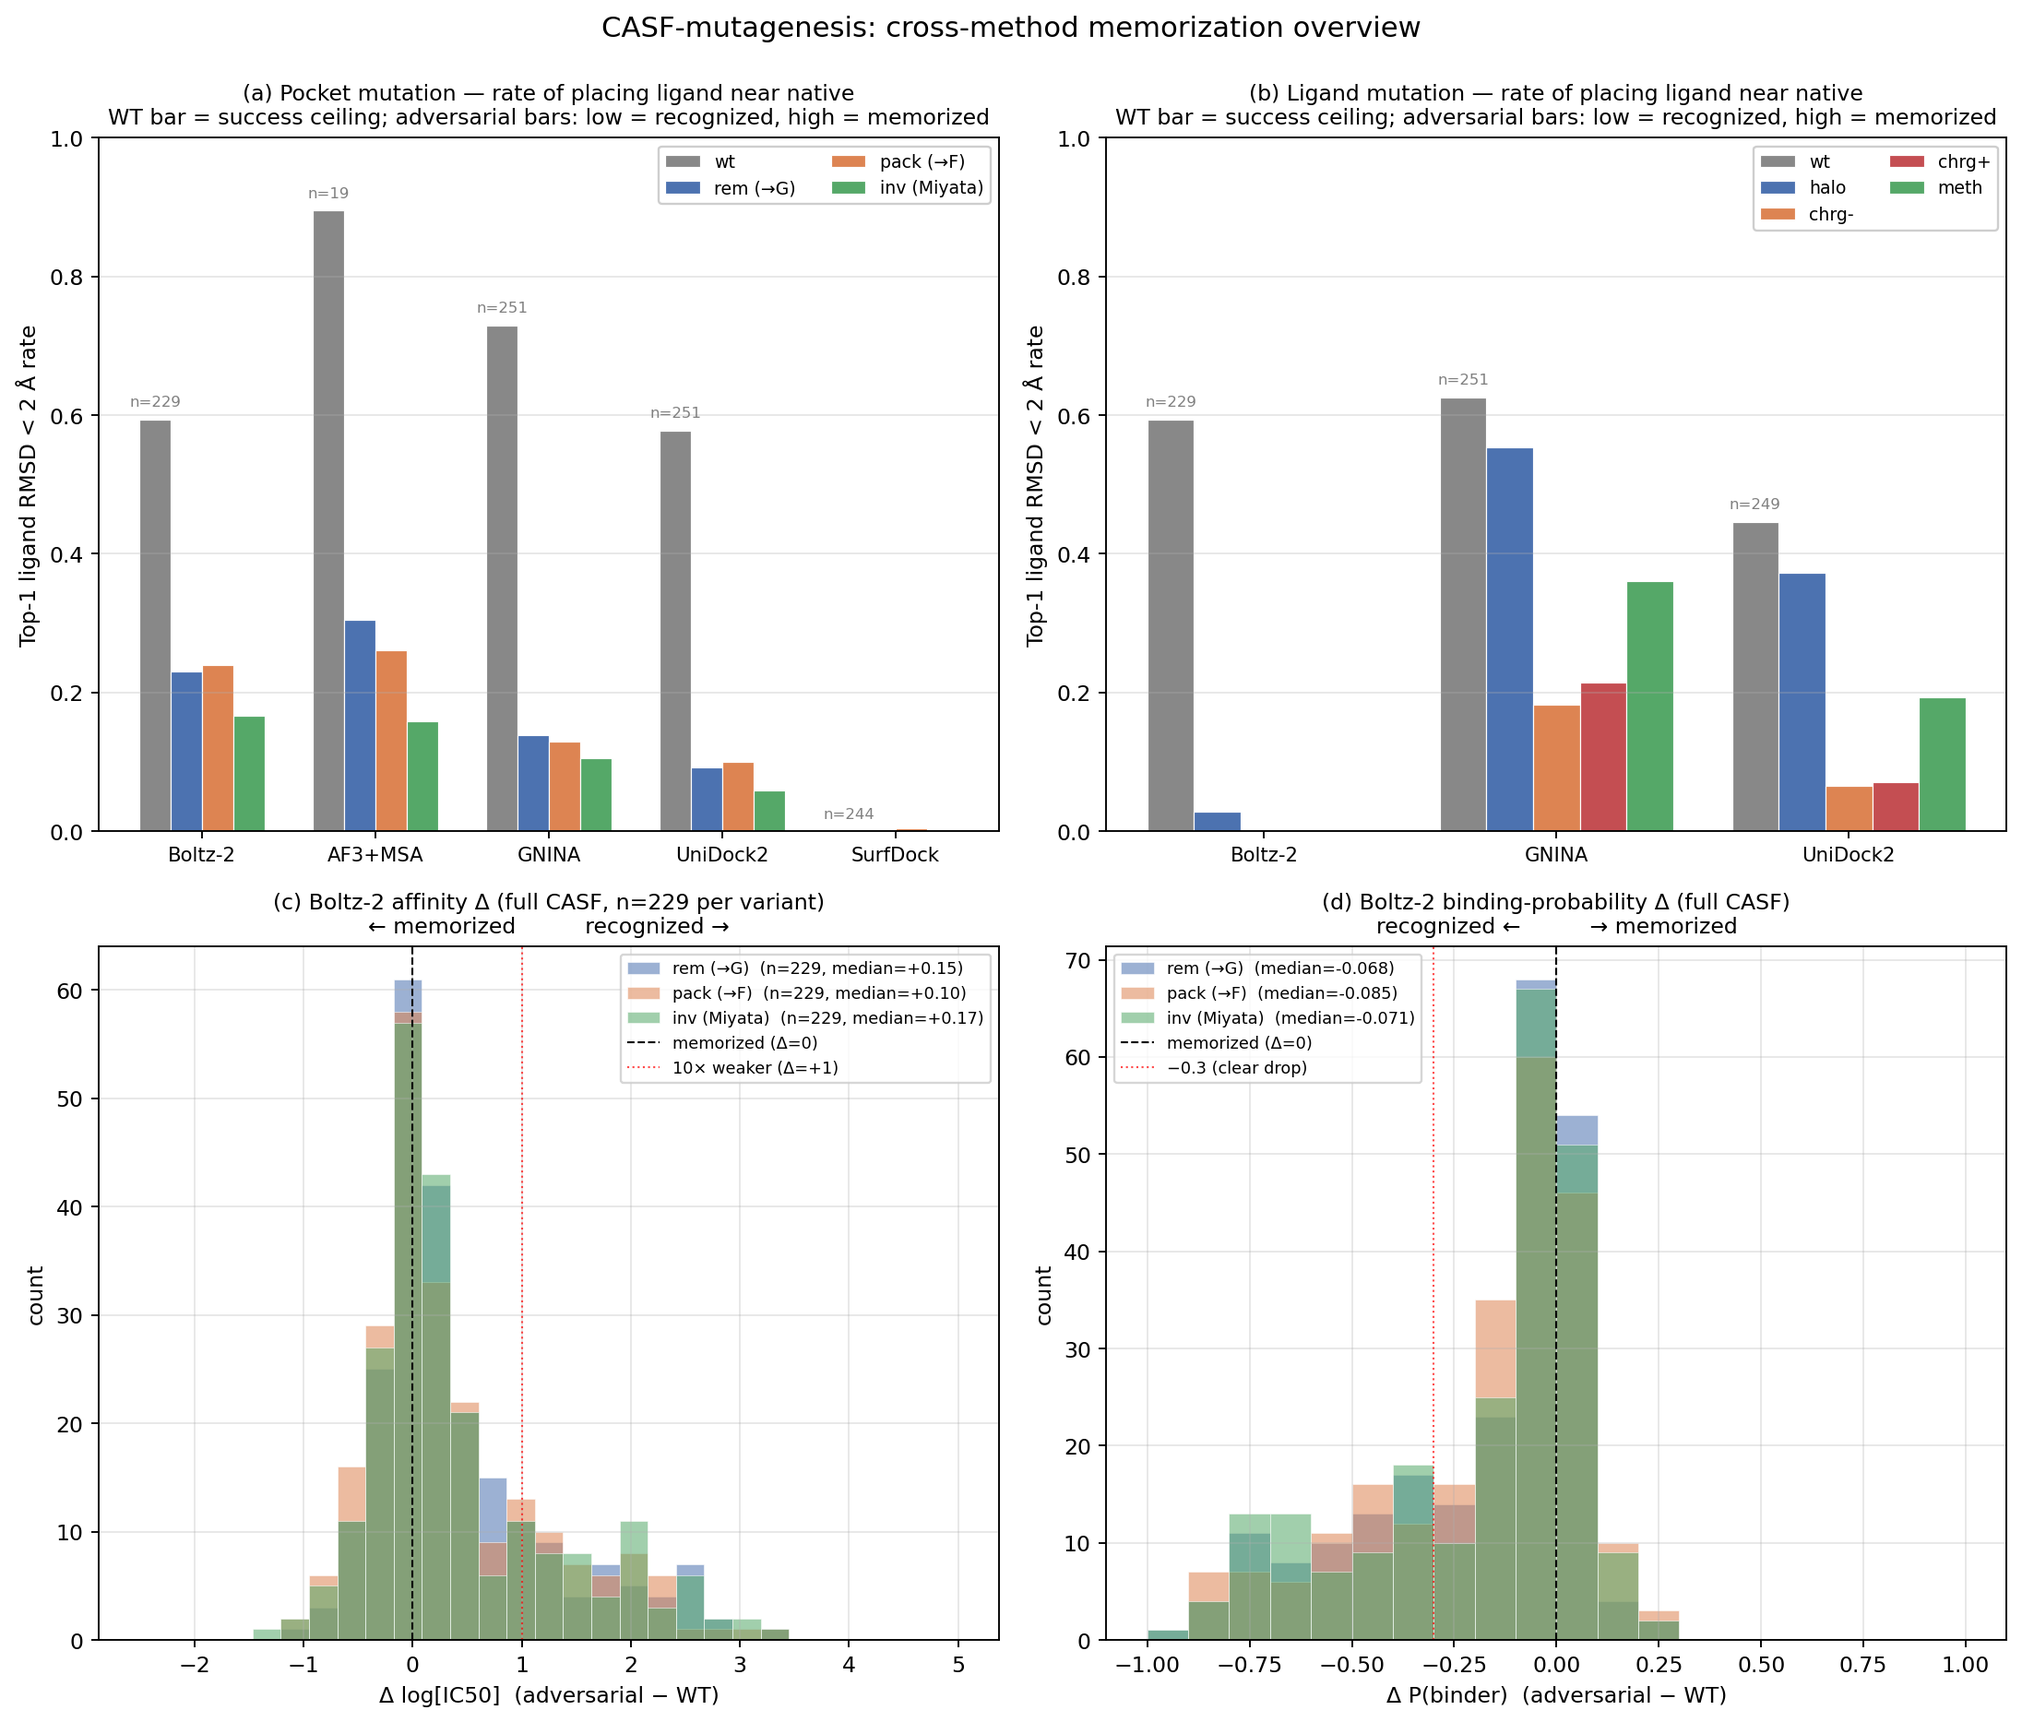
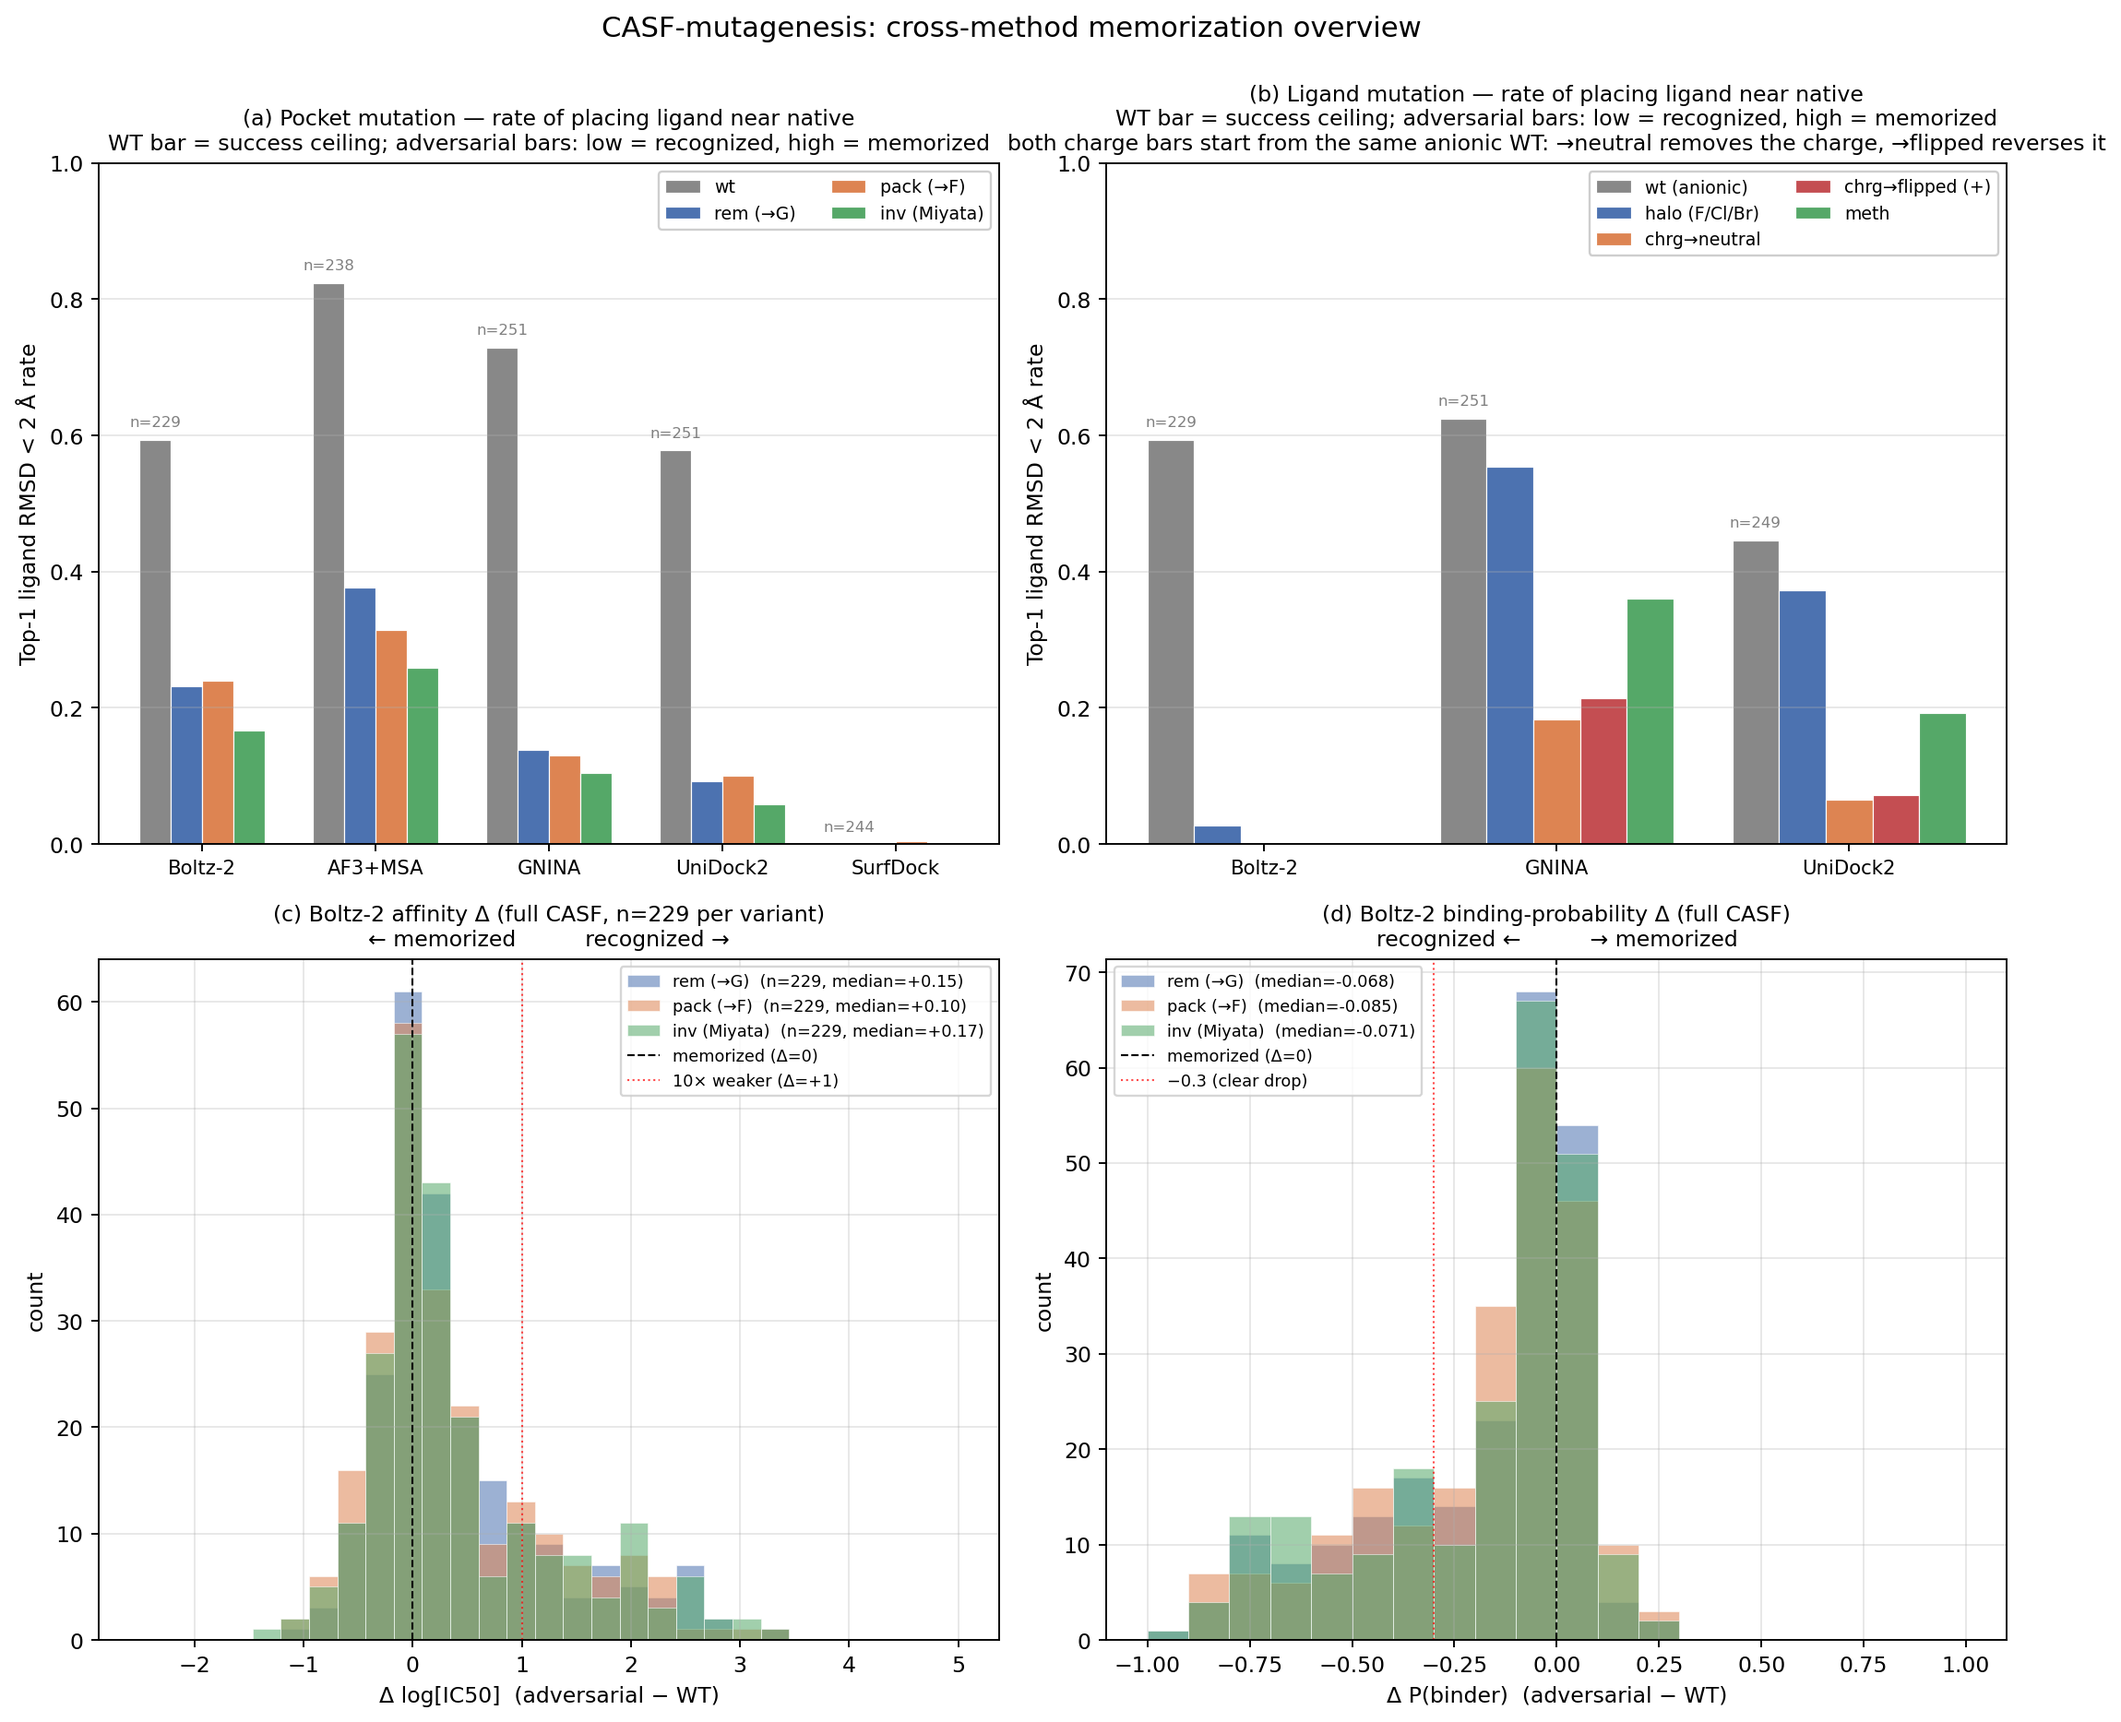
fix(figures): charge-group labels + overview re-rendered on corrected data
Panel (b) legend used the raw keys `chrg-`/`chrg+`, which read as a symmetric
negative-vs-positive pair. They are not: both ladders amputate the SAME anionic
triphosphate and differ only in the graft — `chrg_neu_*` -> neutral alkyl
(charge removed), `chrg_pos_*` -> ammonium (charge flipped). The WT is the
anionic one. Relabelled `chrg->neutral` / `chrg->flipped (+)` with a subtitle
saying both start from the anionic WT. (The two rungs are statistically
indistinguishable: GNINA p=0.52, UniDock2 p=0.84.)

The figure is also re-rendered from the post-fix results. AF3+MSA memorization
rises — rem 0.305->0.377, pack 0.261->0.314, inv 0.159->0.259 — because a
single-chain prediction failed for structural reasons and was scored as "not
memorized". Boltz-2 moves +0.000 on all variants, the control confirming the
shift is the AF3 fix and not a pipeline perturbation. Multi-seed: inv on the
affected systems is 0.529 +/- 0.020 (3 seeds) vs 0.078 before.

Claude-Session: https://claude.ai/code/session_01GhyR64kCA5wvBTqnjWBpbb

diff --git a/analysis/casf_mutagenesis/scripts/13_plot_overview.py b/analysis/casf_mutagenesis/scripts/13_plot_overview.py
@@ -52,6 +52,16 @@ POCKET_LABELS = {
 
 # Ligand-side variant grouping (collapse halo_Br/Cl/F → "halo", chrg_* → "chrg",
 # meth_1..5 → "meth"). Keeps the bar plot readable.
+#
+# NOTE on the two charge groups: they are NOT "negative variant" vs "positive
+# variant". Both ladders amputate the SAME anionic triphosphate at the same
+# bond and differ only in the tail grafted back on (charge_swap.py:36-45):
+#   chrg-  = chrg_neu_*  anion → NEUTRAL alkyl   (charge removed)
+#   chrg+  = chrg_pos_*  anion → CATIONIC ammonium (charge flipped)
+# The WT is the anionic one; these are two rungs going the same direction away
+# from it. The neutral ladder is also the isosteric control for the cationic
+# one (rungs 2 and 3 are heavy-atom matched, 9 and 13). Legend labels must say
+# this -- the bare "chrg-/chrg+" keys read as a symmetric pos/neg dichotomy.
 LIG_GROUPS = {
     "halo":  ("halo_F_1", "halo_Cl_1", "halo_Br_1"),
     "chrg-": ("chrg_neu_methyl", "chrg_neu_ethyl", "chrg_neu_propyl"),
@@ -65,6 +75,14 @@ LIG_COLORS = {
     "chrg-": "#DD8452",
     "chrg+": "#C44E52",
     "meth":  "#55A868",
+}
+# Display labels (same pattern as ligand_mutagenesis/scripts/06_plot_affinity.py).
+LIG_LABELS = {
+    "wt":    "wt (anionic)",
+    "halo":  "halo (F/Cl/Br)",
+    "chrg-": "chrg→neutral",
+    "chrg+": "chrg→flipped (+)",
+    "meth":  "meth",
 }
 
 
@@ -279,7 +297,7 @@ def panel_b_ligand(ax) -> None:
             r, n = grouped_rate(mkey, gkey)
             rates.append(r); ns.append(n)
         bars = ax.bar(x + (i - 2) * width, rates, width,
-                      label=gkey, color=LIG_COLORS[gkey],
+                      label=LIG_LABELS[gkey], color=LIG_COLORS[gkey],
                       edgecolor="white", linewidth=0.5)
         if gkey == "wt":
             for bar, n in zip(bars, ns):
@@ -291,7 +309,8 @@ def panel_b_ligand(ax) -> None:
     ax.set_xticklabels([m[0] for m in methods], fontsize=9)
     ax.set_ylabel("Top-1 ligand RMSD < 2 Å rate")
     ax.set_title("(b) Ligand mutation — rate of placing ligand near native\n"
-                 "WT bar = success ceiling; adversarial bars: low = recognized, high = memorized",
+                 "WT bar = success ceiling; adversarial bars: low = recognized, high = memorized\n"
+                 "both charge bars start from the same anionic WT: →neutral removes the charge, →flipped reverses it",
                  fontsize=10)
     ax.legend(fontsize=8, loc="upper right", ncol=2, framealpha=0.95)
     ax.set_ylim(0, 1)
